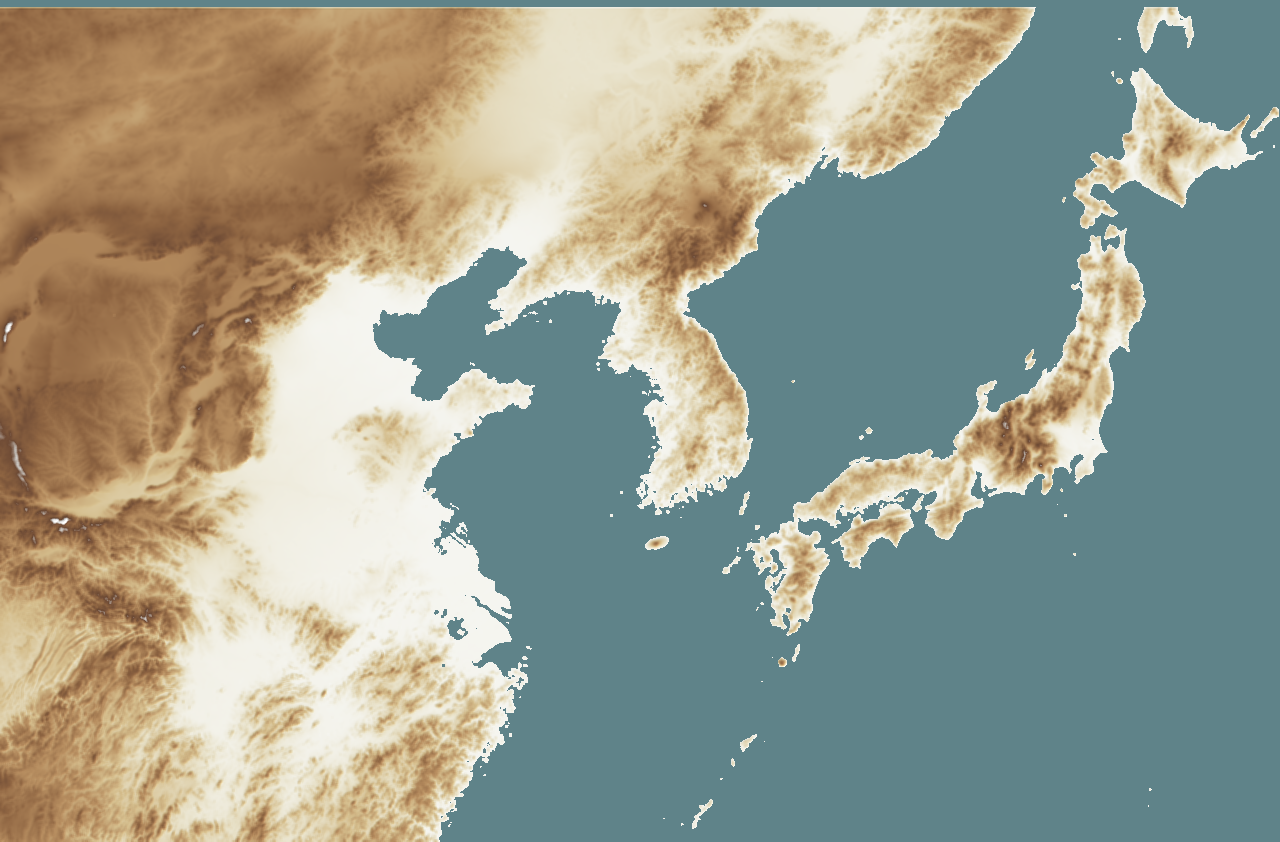
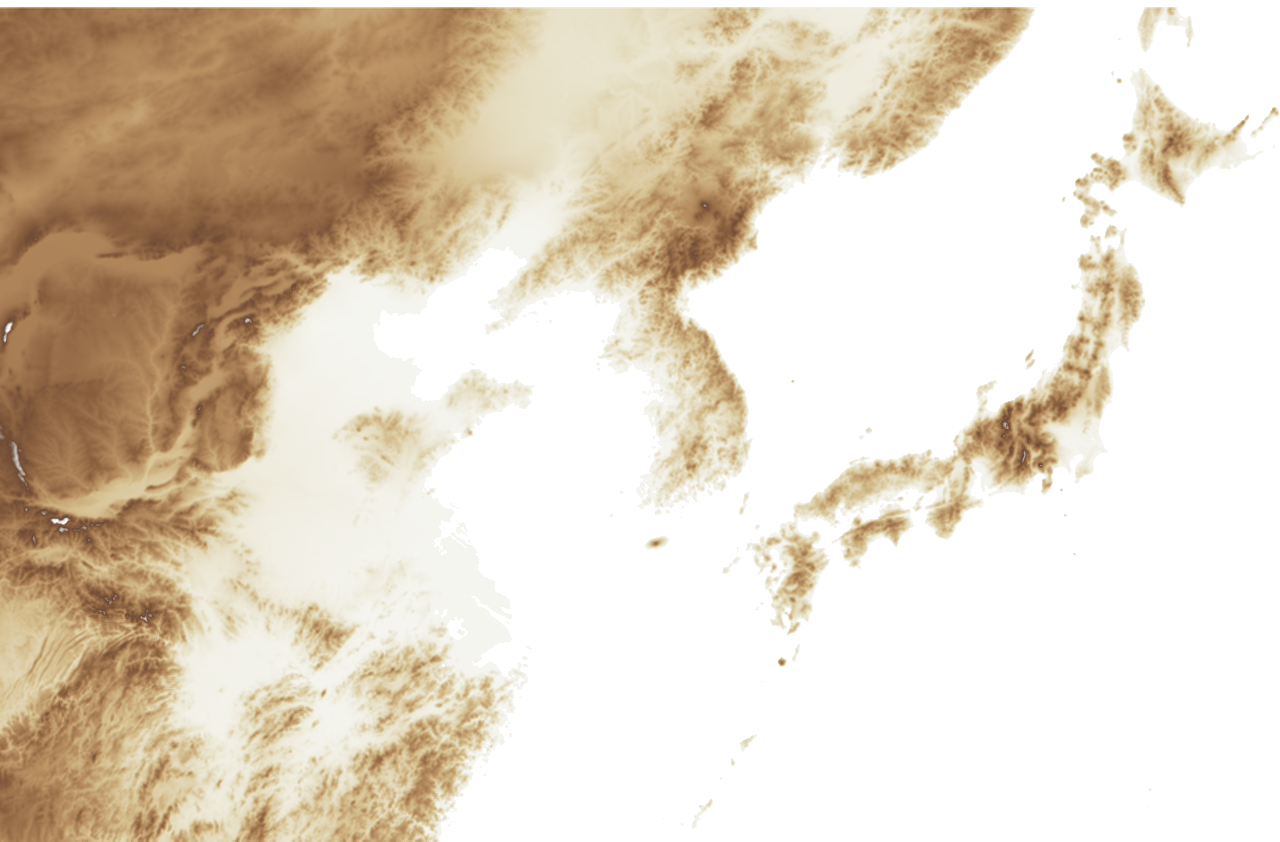
fix(map): 해안선 기준을 벡터로 통일 — 지형 켜도 해안선 정확, 강-바다 연결 (T-008)
원인: relief 래스터가 자체(저해상) 해안선으로 벡터 해안을 덮음 + NE 강 끝점이 우리 해안선과 미달. 해결: relief.png 바다를 투명화하고 지형·강·영토를 land clipPath로 클립(해안선=벡터 단일 기준), 강 하구는 끝점 고도<15m일 때 0.3° 연장 후 클립으로 정확히 해안에서 종단. viewer.js에 land 옵션 추가, assets/land.json 신설.

diff --git a/map/viewer.js b/map/viewer.js
@@ -23,7 +23,7 @@
     for(var i=0;i<m.length-1;i+=2){ var x=+m[i],y=+m[i+1]; if(x<b[0])b[0]=x;if(x>b[2])b[2]=x;if(y<b[1])b[1]=y;if(y>b[3])b[3]=y; } return b; }
 
   function render(mount, opts){
-    var map=opts.map, rivers=opts.rivers||{major:"",minor:""}, reliefUrl=opts.reliefUrl;
+    var map=opts.map, rivers=opts.rivers||{major:"",minor:""}, reliefUrl=opts.reliefUrl, landD=opts.land||"";
     var cfg=map.cfg, kx=Math.cos((cfg.WIN[1]+cfg.WIN[3])/2*Math.PI/180);
     function proj(lon,lat){ return [ (lon-cfg.WIN[0])*kx*cfg.SCALE+cfg.pad, (cfg.WIN[3]-lat)*cfg.SCALE+cfg.pad ]; }
     var COLOR={}; map.nations.forEach(function(n){ COLOR[n.id]=n.color; });
@@ -45,9 +45,17 @@
     mount.appendChild(lb);
 
     var svg=el("svg",{class:"cmap-svg",viewBox:map.viewBox}); svg.style.background=(cfg.ocean||"#5f8389");
-    if(reliefUrl){ var img=el("image",{x:0,y:0,width:map.viewBox.split(" ")[2],height:map.viewBox.split(" ")[3],preserveAspectRatio:"none"}); img.setAttributeNS("http://www.w3.org/1999/xlink","href",reliefUrl); img.setAttribute("href",reliefUrl); svg.appendChild(img); }
-    var gRiver=el("g",{}); gRiver.appendChild(el("path",{class:"cmap-river mn",d:rivers.minor||""})); gRiver.appendChild(el("path",{class:"cmap-river mj",d:rivers.major||""})); svg.appendChild(gRiver);
-    var gTerr=el("g",{}), gTL=el("g",{}), gCity=el("g",{}); svg.appendChild(gTerr); svg.appendChild(gTL); svg.appendChild(gCity);
+    // 해안선 기준 = 벡터 land 하나로 통일: relief(투명 바다)·강·영토를 land 모양으로 클립
+    var clipId=null;
+    if(landD){
+      clipId="cmapClip"+(++render._n||(render._n=1));
+      var defs=el("defs",{}); var cp=el("clipPath",{id:clipId}); cp.appendChild(el("path",{d:landD})); defs.appendChild(cp); svg.appendChild(defs);
+      svg.appendChild(el("path",{class:"cmap-land",d:landD}));
+    }
+    function clipped(g){ if(clipId) g.setAttribute("clip-path","url(#"+clipId+")"); return g; }
+    if(reliefUrl){ var img=el("image",{x:0,y:0,width:map.viewBox.split(" ")[2],height:map.viewBox.split(" ")[3],preserveAspectRatio:"none"}); img.setAttributeNS("http://www.w3.org/1999/xlink","href",reliefUrl); img.setAttribute("href",reliefUrl); if(clipId)img.setAttribute("clip-path","url(#"+clipId+")"); svg.appendChild(img); }
+    var gRiver=clipped(el("g",{})); gRiver.appendChild(el("path",{class:"cmap-river mn",d:rivers.minor||""})); gRiver.appendChild(el("path",{class:"cmap-river mj",d:rivers.major||""})); svg.appendChild(gRiver);
+    var gTerr=clipped(el("g",{})), gTL=el("g",{}), gCity=el("g",{}); svg.appendChild(gTerr); svg.appendChild(gTL); svg.appendChild(gCity);
     mount.appendChild(svg);
 
     // 범례

diff --git a/map/example.html b/map/example.html
@@ -12,12 +12,14 @@
   // 로컬 예제: 파일에서 로드 (실서비스에선 map=Firestore, reliefUrl=jsDelivr)
   Promise.all([
     fetch('data/samguk-map.json').then(function(r){return r.json();}),
-    fetch('assets/rivers.json').then(function(r){return r.json();})
+    fetch('assets/rivers.json').then(function(r){return r.json();}),
+    fetch('assets/land.json').then(function(r){return r.json();})
   ]).then(function(res){
     CheeseMap.render(document.getElementById('samgukMap'), {
       title: '삼국시대 동아시아',
       map: res[0],
       rivers: res[1],
+      land: res[2].land,                // 벡터 해안선(지형·강·영토를 이 모양으로 클립)
       reliefUrl: 'assets/relief.png',   // 실서비스: https://cdn.jsdelivr.net/gh/madonaka/cheese-blog-parts@main/map/assets/relief.png
       note: '연도를 눌러 세력 변화를 보세요. 지형은 실제 고도, 강은 실측 하천 데이터.'
     });

diff --git a/map/cheese-map.css b/map/cheese-map.css
@@ -13,6 +13,7 @@
 .cmap-btn:hover{ background:#fff; } .cmap-btn.on{ background:#e7ece2; font-weight:700; }
 .cmap-lbl{ font-size:.78rem; color:var(--cmap-soft); margin:0 2px 0 8px; }
 .cmap-svg{ width:100%; height:auto; display:block; border-radius:9px; border:1px solid var(--cmap-line); }
+.cmap-land{ fill:#f2f0e8; stroke:#c7b998; stroke-width:.7; stroke-linejoin:round; }
 .cmap-terr{ fill-opacity:.4; stroke:#fff; stroke-width:1.2; stroke-opacity:.8; stroke-linejoin:round; }
 .cmap-terrlab{ fill:#20242a; paint-order:stroke; stroke:#fff; stroke-width:2.6px; stroke-linejoin:round; text-anchor:middle; font-weight:700; font-size:13px; pointer-events:none; }
 .cmap-river{ fill:none; stroke:#2f5468; stroke-opacity:.62; stroke-linejoin:round; stroke-linecap:round; }

diff --git a/map/README.md b/map/README.md
@@ -13,8 +13,9 @@ map/
   data/
     samguk-map.json     published 지도 데이터 (겹침 절단 완료 → 뷰어는 라이브러리 불필요)
   assets/
-    relief.png          음영 지형도 (~710KB, jsDelivr로 서빙)
-    rivers.json         강 경로 (major/minor)
+    relief.png          음영 지형도 (바다=투명, jsDelivr로 서빙)
+    rivers.json         강 경로 (major/minor, 하구는 바다쪽으로 연장)
+    land.json           벡터 해안선 — 해안선의 단일 기준. 뷰어가 지형·강·영토를 이 모양으로 클립
   admin/
     editor.html         관리자 편집기 (지형·영토·도시 편집, 저장). polygon-clipping 포함.
   build/                에셋 재생성 파이프라인 (Node)
@@ -78,16 +79,17 @@ https://cdn.jsdelivr.net/gh/madonaka/cheese-blog-parts@main/map/assets/rivers.js
 <script src="https://cdn.jsdelivr.net/gh/madonaka/cheese-blog-parts@main/map/viewer.js"></script>
 <script>
   // map = Firestore published 문서 (또는 CDN JSON)
-  fetch('https://cdn.jsdelivr.net/gh/madonaka/cheese-blog-parts@main/map/data/samguk-map.json')
-    .then(r=>r.json()).then(function(map){
-      fetch('https://cdn.jsdelivr.net/gh/madonaka/cheese-blog-parts@main/map/assets/rivers.json')
-        .then(r=>r.json()).then(function(rivers){
-          CheeseMap.render(document.getElementById('samgukMap'), {
-            title:'삼국시대 동아시아', map:map, rivers:rivers,
-            reliefUrl:'https://cdn.jsdelivr.net/gh/madonaka/cheese-blog-parts@main/map/assets/relief.png'
-          });
-        });
+  var CDN='https://cdn.jsdelivr.net/gh/madonaka/cheese-blog-parts@main/map/';
+  Promise.all([
+    fetch(CDN+'data/samguk-map.json').then(function(r){return r.json();}),
+    fetch(CDN+'assets/rivers.json').then(function(r){return r.json();}),
+    fetch(CDN+'assets/land.json').then(function(r){return r.json();})
+  ]).then(function(res){
+    CheeseMap.render(document.getElementById('samgukMap'), {
+      title:'삼국시대 동아시아', map:res[0], rivers:res[1], land:res[2].land,
+      reliefUrl:CDN+'assets/relief.png'
     });
+  });
 </script>
 ```
 